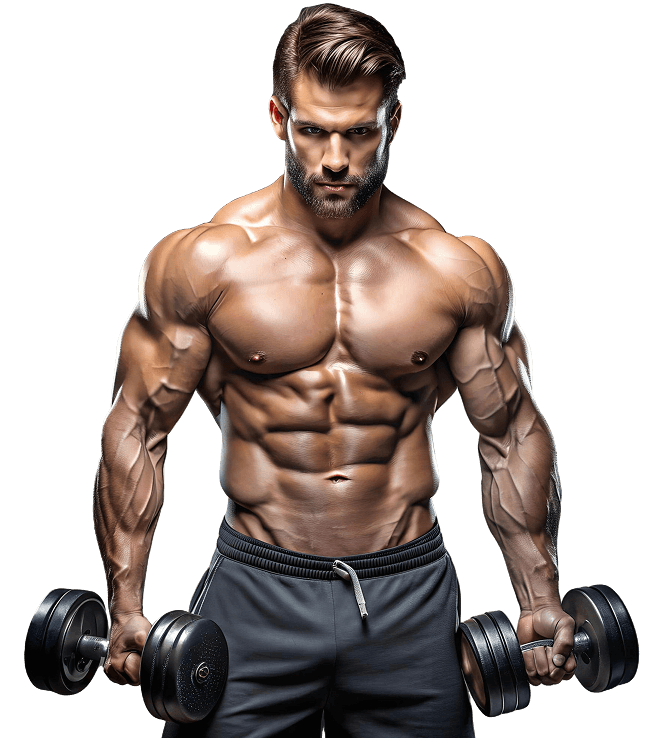
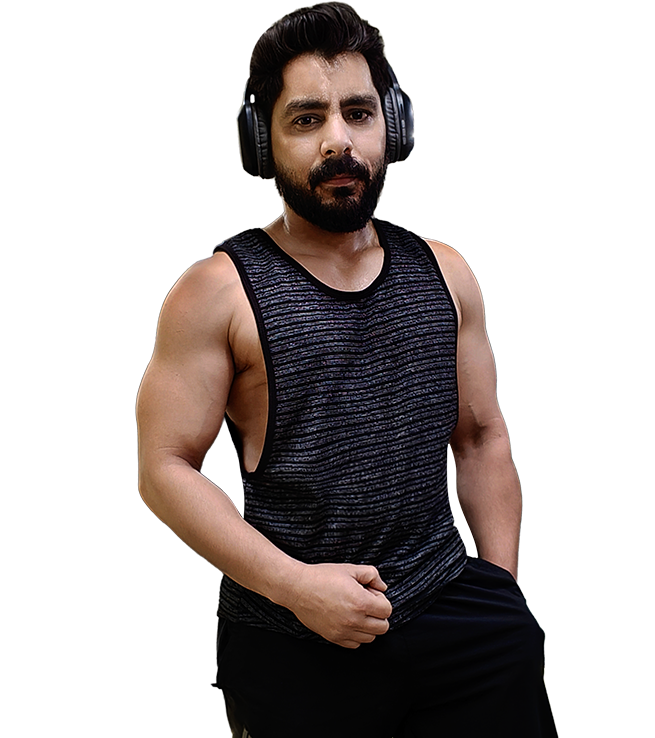
hero image

diff --git a/data/blog-data.js b/data/blog-data.js
@@ -1,53 +1,31 @@
-const blogPosts = {
-    "fitness-journey": {
-      title: "Get Started on Your Fitness Journey Today",
-      date: "2024-01-01",
-      image: "images/post-1.jpg",
-      tags: ["Fitness", "Training", "Workout"],
-      content: `
-        <p>Our blog is a collection of inspiring fitness stories that showcase the power of perseverance and determination...</p>
-        <p>In addition to personal stories, we provide expert tips...</p>
-        <blockquote>
-          <p>Our blog combines motivating fitness stories and practical advice...</p>
-        </blockquote>
-        <p>Our blog is designed to inspire and guide you...</p>
-        <h2>Get Started on Your Fitness Journey Today</h2>
-        <p>Now that you've read the inspiring stories and expert tips...</p>
-        <ul>
-          <li>Start Your Fitness Journey with Simple Steps and Consistent Effort</li>
-          <li>Transform Your Body and Mind with Our Step-by-Step Fitness Plan</li>
-          <li>Overcome Fitness Challenges with Our Proven Tips and Techniques</li>
-          <li>Unlock Your Fitness Potential with Our Easy-to-Follow Guides</li>
-          <li>Achieve Your Fitness Goals Faster with Expert Advice and Motivation</li>
-        </ul>
-        <p>Achieving weight loss and maintaining body fitness require a combination of proper nutrition and regular exercise...</p>
-      `
+{
+  "blogPosts" [
+    {
+      "id": 1,
+      "slug": "10-effective-exercises",
+      "title": "10 Effective Exercises for Weight Loss for body fitness",
+      "imageSrc": "images/post-1.jpg",
+      "summary": "Achieving weight loss and maintaining body fitness require a combination of proper nutrition and regular exercise. Here are 10 of the most effective exercises to help you shed excess pounds and stay in shape.",
+      "content": "<p>Our blog is a collection of inspiring fitness stories that showcase the power of perseverance and determination. From beginners to seasoned athletes, these real-life journeys highlight the challenges and triumphs people face on their fitness paths. These stories serve as a reminder that no matter where you start, consistency and dedication will always lead you closer to your goals.</p><p>In addition to personal stories, we provide expert tips on a wide range of topics, including effective workout routines, nutrition advice, and strategies for staying motivated. Our goal is to empower you with the knowledge and tools needed to succeed. Whether you want to lose weight.</p><blockquote><p>Our blog combines motivating fitness stories and practical advice to help you stay on track. With insights from real people, expert tips, and proven strategies, you'll find everything you need to stay inspired, overcome obstacles, and achieve your fitness goals.</p></blockquote><p>Our blog is designed to inspire and guide you through your fitness journey. Featuring a combination of real-life success stories and expert tips, we provide motivation and practical advice to help you overcome challenges and stay on track. From workout routines and nutrition guidance to mindset strategies, our blog covers all aspects of fitness. Each story and tip is aimed at empowering you to reach your goals, whether you're starting out or aiming to take your fitness to the next level. Stay motivated, learn new strategies, and join a community dedicated to improving health and well-being.</p><h2>Get Started on Your Fitness Journey Today</h2><p>Now that you've read the inspiring stories and expert tips, it's time to take action. Whether you're just beginning or looking to enhance your current fitness routine, our blog will help guide you every step of the way. We've got resources and actionable advice to kickstart your fitness journey, including beginner-friendly workouts, meal planning tips, and motivation boosters. Start today and take the first step toward a healthier, stronger you!</p><ul><li>Start Your Fitness Journey with Simple Steps and Consistent Effort</li><li>Transform Your Body and Mind with Our Step-by-Step Fitness Plan</li><li>Overcome Fitness Challenges with Our Proven Tips and Techniques</li><li>Unlock Your Fitness Potential with Our Easy-to-Follow Guides</li><li>Achieve Your Fitness Goals Faster with Expert Advice and Motivation</li></ul><p>Achieving weight loss and maintaining body fitness require a combination of proper nutrition and regular exercise. While diet plays a crucial role, engaging in effective physical activities accelerates fat burning, improves metabolism, and enhances overall well-being. Here are 10 of the most effective exercises to help you shed excess pounds and stay in shape.</p>",
+      "tags": ["Fitness", "Training", "Workout"]
     },
-    "gym-trainer": {
-      title: "Get Started on Your Fitness Journey Today",
-      date: "2024-01-01",
-      image: "images/post-1.jpg",
-      tags: ["Fitness", "Training", "Workout"],
-      content: `
-        <p>Our blog is a collection of inspiring fitness stories that showcase the power of perseverance and determination...</p>
-        <p>In addition to personal stories, we provide expert tips...</p>
-        <blockquote>
-          <p>Our blog combines motivating fitness stories and practical advice...</p>
-        </blockquote>
-        <p>Our blog is designed to inspire and guide you...</p>
-        <h2>Get Started on Your Fitness Journey Today</h2>
-        <p>Now that you've read the inspiring stories and expert tips...</p>
-        <ul>
-          <li>Start Your Fitness Journey with Simple Steps and Consistent Effort</li>
-          <li>Transform Your Body and Mind with Our Step-by-Step Fitness Plan</li>
-          <li>Overcome Fitness Challenges with Our Proven Tips and Techniques</li>
-          <li>Unlock Your Fitness Potential with Our Easy-to-Follow Guides</li>
-          <li>Achieve Your Fitness Goals Faster with Expert Advice and Motivation</li>
-        </ul>
-        <p>Achieving weight loss and maintaining body fitness require a combination of proper nutrition and regular exercise...</p>
-      `
+    {
+      "id": 2,
+      "slug": "ultimate-guide-meal-preparing",
+      "title": "The Ultimate Guide to Meal Preparing for Fitness Success",
+      "imageSrc": "images/post-2.jpg", 
+      "summary": "Proper meal preparation is a cornerstone of fitness success. This comprehensive guide provides strategies for effective meal planning to support your workout goals and overall health.",
+      "content": "<p>Meal preparation is one of the most important aspects of achieving your fitness goals. This comprehensive guide walks you through everything you need to know about meal prepping for optimal results.</p><p>Understanding the basics of nutrition is essential before diving into meal preparation. We'll cover macronutrients, portion control, and how to tailor your meals to your specific fitness goals, whether that's building muscle, losing weight, or improving athletic performance.</p><blockquote><p>Meal prepping isn't just about convenience—it's about taking control of your nutrition and ensuring your body gets exactly what it needs to perform at its best.</p></blockquote><p>Our step-by-step approach makes meal prepping accessible for everyone, from beginners to experienced fitness enthusiasts. Learn how to plan your weekly menu, create efficient shopping lists, and batch cook delicious, nutritious meals that will keep you on track throughout the week.</p><h2>Practical Tips for Successful Meal Preparation</h2><p>Even with the best intentions, meal prepping can be challenging without the right strategies. We share practical tips on food storage, preventing meal fatigue, and adapting your meal prep routine to fit your lifestyle and schedule.</p><ul><li>Choose the right containers for optimal food storage and freshness</li><li>Master batch cooking techniques to save time and energy</li><li>Balance variety and simplicity to maintain nutritional goals</li><li>Create a sustainable meal prep schedule that works for your lifestyle</li><li>Incorporate time-saving kitchen tools and appliances</li></ul><p>With these strategies in place, you'll be well-equipped to make meal preparation a consistent part of your fitness journey, leading to better results and a healthier relationship with food.</p>",
+      "tags": ["Nutrition", "Meal Prep", "Fitness"]
     },
-  
-    // Add more blogs here using unique slugs
-  };
-  
+    {
+      "id": 3,
+      "slug": "benefits-strength-training",
+      "title": "Discover the Top Benefits of Strength Training for All Ages",
+      "imageSrc": "images/post-3.jpg",
+      "summary": "Strength training offers numerous benefits beyond just building muscle. Learn how this type of exercise improves bone density, metabolism, and overall quality of life for people of all ages.",
+      "content": "<p>Strength training is often misunderstood as an exercise regime exclusively for bodybuilders or athletes. However, the benefits of strength training extend far beyond building impressive muscles, making it an essential component of fitness for people of all ages and fitness levels.</p><p>From teenagers to seniors, strength training offers tremendous physical and mental health benefits. Regular resistance exercises help build lean muscle mass, increase bone density, boost metabolism, and improve joint function and mobility.</p><blockquote><p>Strength training isn't just about getting stronger physically—it's about building resilience, improving quality of life, and maintaining independence as we age.</p></blockquote><p>For older adults, strength training can be particularly transformative. It helps combat age-related muscle loss (sarcopenia), reduces the risk of falls, and supports everyday functional movements. This allows for greater independence and an improved quality of life well into the golden years.</p><h2>Getting Started with Strength Training</h2><p>Beginning a strength training program doesn't require fancy equipment or a gym membership. We'll guide you through simple, effective exercises that can be done at home with minimal equipment, making strength training accessible to everyone regardless of experience or resources.</p><ul><li>Start with bodyweight exercises to build a foundation</li><li>Focus on proper form before increasing resistance</li><li>Incorporate progressive overload principles for continued improvement</li><li>Balance your routine with exercises for all major muscle groups</li><li>Allow adequate recovery time between strength sessions</li></ul><p>Whether you're looking to improve athletic performance, maintain muscle mass as you age, or simply enhance your overall health and wellbeing, strength training deserves a place in your fitness routine. The benefits are truly transformative and accessible to everyone.</p>",
+      "tags": ["Strength Training", "Fitness", "Health"]
+    }
+  ]
+}

diff --git a/index.html b/index.html
@@ -39,11 +39,10 @@
 
     <!-- Preloader Start -->
 	<div class="preloader">
-		<div class="loading-container">
-			<div class="loading"></div>
-			<div id="loading-icon"><img src="images/loader.svg" alt=""></div>
-		</div>
-	</div>
+        <div class="loading-container">
+          <img id="loading-icon" src="images/loader.svg" alt="Loading" />
+        </div>
+      </div>
 	<!-- Preloader End -->
 
     <!-- Header Start -->
@@ -59,7 +58,7 @@
                     <div class="hero-content">
                         <!-- Section Title Start -->
                         <div class="section-title dark-section">
-                            <h1 class="text-anime-style-2" data-cursor="-opaque">Your body can <span>stand almost</span> anything.</h1>
+                            <h1 class="text-anime-style-2" data-cursor="-opaque">Become the   <span class="">  Strongest</span> - Version of You</h1>
                             <p class="wow fadeInUp">It's your mind that needs convincing. Push past your limits, stay committed, and watch as your body transform into powerhouse of strength and resilience. Start your journey today & truly capable of!</p>
                         </div>
                         <!-- Section Title End -->
@@ -68,22 +67,22 @@
                         <div class="hero-counter-box">                        
                             <!-- Hero Counter Item Start -->
                             <div class="hero-counter-item">
-                                <h3><span class="counter">1200</span>+</h3>
-                                <p>Active Members</p>
+                                <h3><span class="counter">1000</span>+</h3>
+                                <p>Transformations</p>
                             </div>
                             <!-- Hero Counter Item End -->
 
                             <!-- Hero Counter Item Start -->
                             <div class="hero-counter-item">
                                 <h3><span class="counter">12</span>+</h3>
-                                <p>Certified Trainers</p>
+                                <p>Year of Experience</p>
                             </div>
                             <!-- Hero Counter Item End -->
 
                             <!-- Hero Counter Item Start -->
                             <div class="hero-counter-item">
                                 <h3><span class="counter">20</span>+</h3>
-                                <p>Year Of Experience</p>
+                                <p>3rd-Gen Trainer </p>
                             </div>
                             <!-- Hero Counter Item End -->
                         </div>
@@ -91,8 +90,8 @@
                         
                         <!-- Hero Button Start -->
                         <div class="hero-btn wow fadeInUp" data-wow-delay="0.2s">
-                            <a href="contact.html" class="btn-default">Get Started</a>
-                            <a href="about.html" class="btn-default btn-highlighted">Explore More</a>
+                            <a href="contact.html" class="btn-default">Book Free Consultation </a>
+                            <a href="about.html" class="btn-default btn-highlighted">Start Your Journey </a>
                         </div>
                         <!-- Hero Button End -->
                     </div>

diff --git a/css/custom.css b/css/custom.css
@@ -1,9 +1,4 @@
-/* ----------------------------------------------------------------------------------------
-* Author        : Awaiken
-* Template Name : Fitwell - Fitness and Gym HTML Template
-* File          : CSS File
-* Version       : 1.0
-* ---------------------------------------------------------------------------------------- */
+
 /* INDEX
 ----------------------------------------------------------------------------------------
 01. Global Variables
@@ -48,7 +43,7 @@
 	--primary-color				: #FFFFFF;
 	--secondary-color			: #202737;
 	--text-color				: #F2F2F2;
-	--accent-color				: #D7FB00;
+	--accent-color				: #40F843;
 	--accent-secondary-color	: #171E2E;
 	--divider-color				: #FFFFFF24;
 	--error-color				: rgb(230, 87, 87);
@@ -307,7 +302,7 @@ body{
 	color: var(--primary-color);
 }
 .nav-link.active {
-	color: #D7FB00 !important; 
+	color: #40F843 !important; 
 	font-weight: bold;
   }
   @media screen and (max-width: 991px) {
@@ -341,61 +336,30 @@ body{
 	background: var(--accent-color);
 }
 
-.preloader{
+.preloader {
 	position: fixed;
 	top: 0;
 	left: 0;
 	right: 0;
 	bottom: 0;
 	z-index: 1000;
-	background: var(--accent-color);
+	background: var(--accent-color); 
 	display: flex;
 	align-items: center;
 	justify-content: center;
-}
-
-.loading-container,
-.loading{
-	height: 100px;
-	position: relative;
-	width: 100px;
-	border-radius: 100%;
-}
-
-.loading-container{
-	margin: 40px auto;
-}
-
-.loading{
-	border: 1px solid transparent;
-	border-color: transparent var(--accent-secondary-color) transparent var(--accent-secondary-color);
-	animation: rotate-loading 1.5s linear 0s infinite normal;
-	transform-origin: 50% 50%;
-}
-
-.loading-container:hover .loading,
-.loading-container .loading{
-	transition: all 0.5s ease-in-out;
-}
-
-#loading-icon{
-	position: absolute;
-	top: 50%;
-	left: 50%;
-	max-width: 66px;
-	transform: translate(-50%, -50%);
-}
-
-@keyframes rotate-loading{
-	0%{
-		transform: rotate(0deg);
-	}
-
-	100%{
-		transform: rotate(360deg);
-	}
-}
-
+  }
+  
+  .loading-container {
+	display: flex;
+	align-items: center;
+	justify-content: center;
+  }
+  
+  #loading-icon {
+	max-width: 500px;
+	width: 100%;
+	height: auto;
+  }
 .light-section{
 	background-color: var(--secondary-color);
 }
@@ -792,6 +756,7 @@ header.main-header .header-sticky.active{
 
 .hero{
 	position: relative;
+	background-color: #111;
 	/* background: url('../images/hero-bg-shape.png'); */
 	background-repeat: no-repeat;
 	background-position: center center;

diff --git a/blog.html b/blog.html
@@ -79,7 +79,7 @@
     <!-- Page Blog Start -->
     <div class="page-blog">
         <div class="container">
-            <div class="row">
+            <div class="row" >
                 <div class="col-lg-4 col-md-6">
                     <!-- Post Item Start -->
                     <div class="post-item wow fadeInUp">

diff --git a/js/function.js b/js/function.js
@@ -5,8 +5,10 @@
 	var $body = $('body'); 
 
 	/* Preloader Effect */
-	$window.on('load', function(){
-		$(".preloader").fadeOut(600);
+	$window.on('load', function() {
+		setTimeout(function() {
+			$(".preloader").fadeOut(600);
+		}, 3000); // Wait 3 seconds (3000ms) before fading out
 	});
 
 	/* Sticky Header */	
